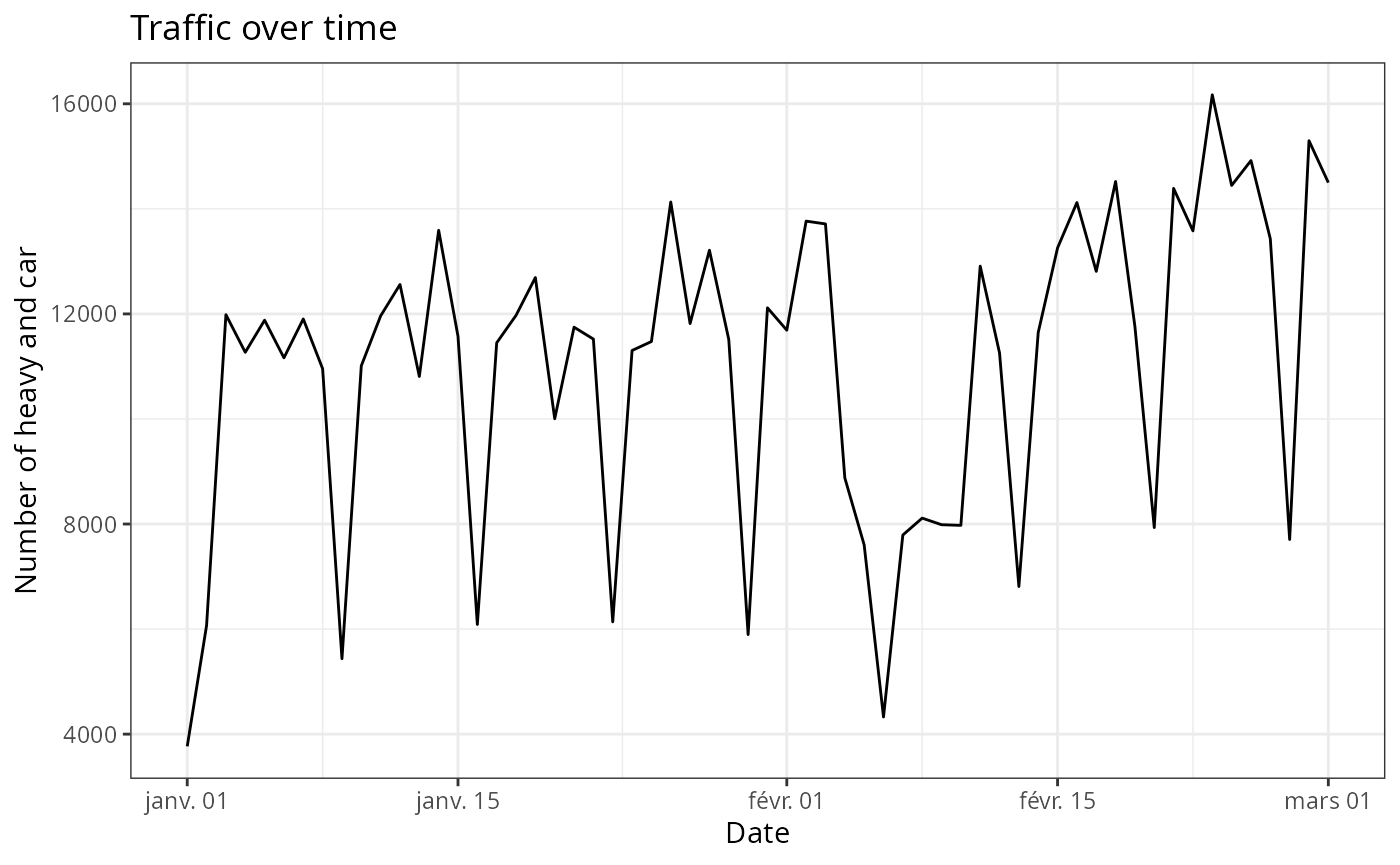
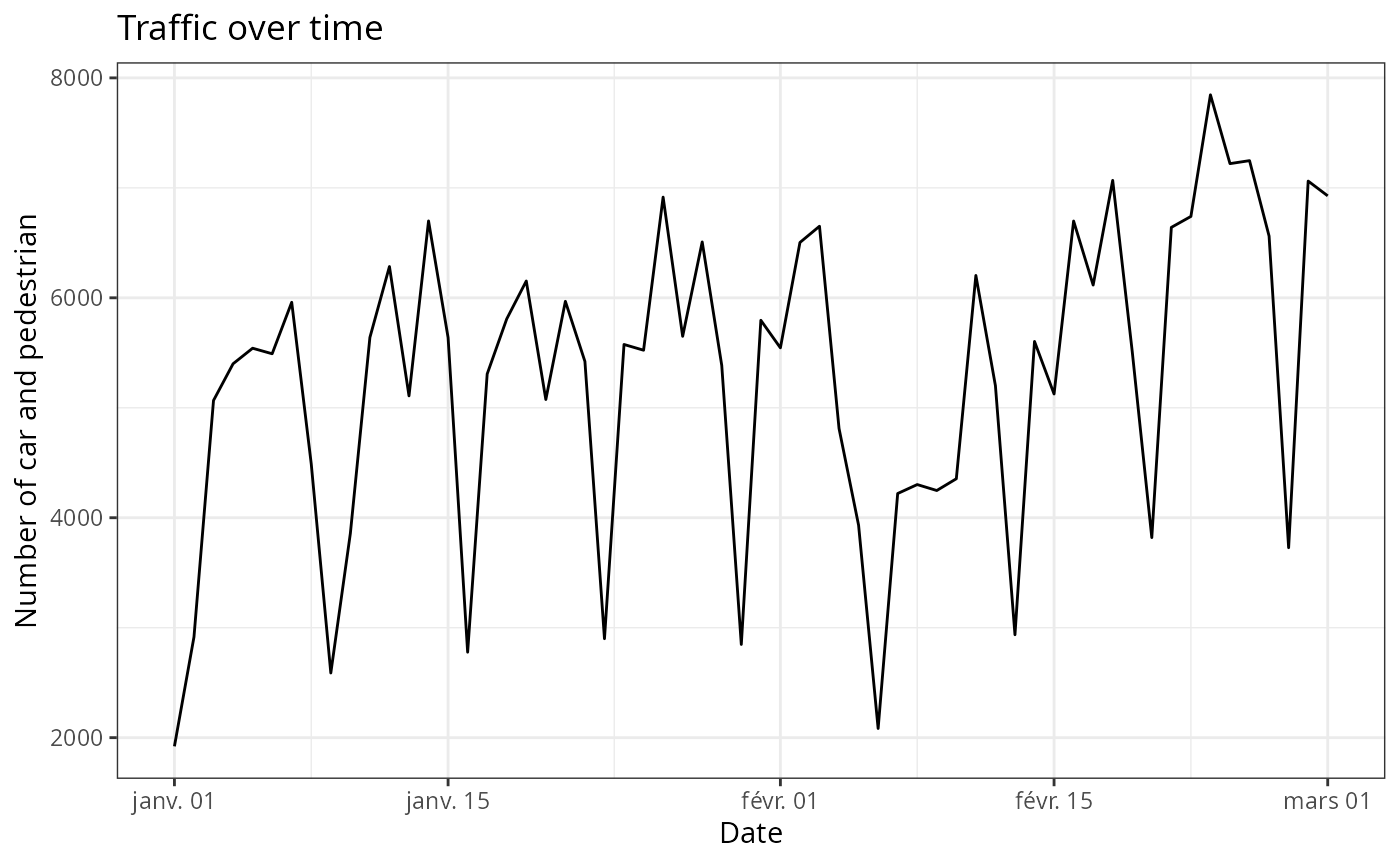
generalize average traffic graphs

diff --git a/docs/articles/data_visualization.html b/docs/articles/data_visualization.html
@@ -365,7 +365,7 @@ is already attached and you can call it directly :</p>
 </table>
 </div>
 <div class="section level2">
-<h2 id="period-availability-for-your-segments">Period Availability for Your Segments<a class="anchor" aria-label="anchor" href="#period-availability-for-your-segments"></a>
+<h2 id="period-availability-for-your-segments">Period availability for your segments<a class="anchor" aria-label="anchor" href="#period-availability-for-your-segments"></a>
 </h2>
 <p>Road segment-specific sensors do not operate continuously; they are
 limited by daylight duration and may also face other external issues
@@ -454,11 +454,31 @@ direction, for a particular transportation mode).</p>
 <code class="sourceCode R"><span><span class="fu"><a href="https://rdrr.io/r/graphics/plot.default.html" class="external-link">plot</a></span><span class="op">(</span></span>
 <span>  <span class="fu"><a href="../reference/gg_traffic_avg.html">gg_traffic_avg</a></span><span class="op">(</span><span class="va">traffic</span>,</span>
 <span>                       date_range <span class="op">=</span> <span class="fu"><a href="https://rdrr.io/r/base/c.html" class="external-link">c</a></span><span class="op">(</span><span class="st">'2022-01-01'</span>,<span class="st">'2022-03-01'</span><span class="op">)</span>,</span>
-<span>                       segment <span class="op">=</span> <span class="fu"><a href="https://rdrr.io/r/base/c.html" class="external-link">c</a></span><span class="op">(</span><span class="fl">9000001844</span><span class="op">)</span>,</span>
+<span>                       segment <span class="op">=</span> <span class="fu"><a href="https://rdrr.io/r/base/c.html" class="external-link">c</a></span><span class="op">(</span><span class="st">"RteVitre-06"</span><span class="op">)</span>,</span>
 <span>                       mode <span class="op">=</span> <span class="fu"><a href="https://rdrr.io/r/base/c.html" class="external-link">c</a></span><span class="op">(</span><span class="st">'car'</span><span class="op">)</span>,</span>
 <span>                       direction <span class="op">=</span> <span class="fu"><a href="https://rdrr.io/r/base/c.html" class="external-link">c</a></span><span class="op">(</span><span class="st">'rgt'</span><span class="op">)</span><span class="op">)</span></span>
 <span><span class="op">)</span></span></code></pre></div>
-<p><img src="data_visualization_files/figure-html/unnamed-chunk-8-1.png" width="700"></p>
+<p><img src="data_visualization_files/figure-html/unnamed-chunk-8-1.png" width="700">
+### Average traffic per segment</p>
+<p>The same function can be used to calculate the average traffic per
+segment and compare segments with each other.</p>
+<div class="sourceCode" id="cb8"><pre class="downlit sourceCode r">
+<code class="sourceCode R"><span><span class="fu"><a href="https://rdrr.io/r/graphics/plot.default.html" class="external-link">plot</a></span><span class="op">(</span></span>
+<span>  <span class="fu"><a href="../reference/gg_traffic_avg.html">gg_traffic_avg</a></span><span class="op">(</span><span class="va">traffic</span>, aggregated_by <span class="op">=</span> <span class="st">"segment_name"</span><span class="op">)</span></span>
+<span><span class="op">)</span></span></code></pre></div>
+<p><img src="data_visualization_files/figure-html/unnamed-chunk-9-1.png" width="700">
+Similarly to before, it is possible to specify a period, a direction of
+travel, a mode of transportation, or here a day of the week.</p>
+<div class="sourceCode" id="cb9"><pre class="downlit sourceCode r">
+<code class="sourceCode R"><span><span class="fu"><a href="https://rdrr.io/r/graphics/plot.default.html" class="external-link">plot</a></span><span class="op">(</span></span>
+<span>  <span class="fu"><a href="../reference/gg_traffic_avg.html">gg_traffic_avg</a></span><span class="op">(</span><span class="va">traffic</span>, </span>
+<span>                 aggregated_by <span class="op">=</span> <span class="st">"segment_name"</span>,</span>
+<span>                 weekday <span class="op">=</span> <span class="fu"><a href="https://rdrr.io/r/base/c.html" class="external-link">c</a></span><span class="op">(</span><span class="st">'dimanche'</span><span class="op">)</span>,</span>
+<span>                 mode <span class="op">=</span> <span class="fu"><a href="https://rdrr.io/r/base/c.html" class="external-link">c</a></span><span class="op">(</span><span class="st">'car'</span><span class="op">)</span>,</span>
+<span>                 direction <span class="op">=</span> <span class="fu"><a href="https://rdrr.io/r/base/c.html" class="external-link">c</a></span><span class="op">(</span><span class="st">'rgt'</span><span class="op">)</span><span class="op">)</span></span>
+<span><span class="op">)</span></span></code></pre></div>
+<p><img src="data_visualization_files/figure-html/unnamed-chunk-10-1.png" width="700">
+### Detail average traffic</p>
 </div>
 </div>
   </main><aside class="col-md-3"><nav id="toc"><h2>On this page</h2>

diff --git a/docs/reference/gg_traffic_avg.html b/docs/reference/gg_traffic_avg.html
@@ -67,7 +67,8 @@ for a transportation mode or more, for a direction or both.</p>
 <span>  segments <span class="op">=</span> <span class="cn">NULL</span>,</span>
 <span>  modes <span class="op">=</span> <span class="fu"><a href="https://rdrr.io/r/base/c.html" class="external-link">c</a></span><span class="op">(</span><span class="st">"heavy"</span>, <span class="st">"car"</span><span class="op">)</span>,</span>
 <span>  direction <span class="op">=</span> <span class="st">"both"</span>,</span>
-<span>  agg_day <span class="op">=</span> <span class="cn">TRUE</span></span>
+<span>  weekday <span class="op">=</span> <span class="cn">NULL</span>,</span>
+<span>  aggregated_by <span class="op">=</span> <span class="st">"weekday"</span></span>
 <span><span class="op">)</span></span></code></pre></div>
     </div>
 
@@ -93,8 +94,12 @@ for a transportation mode or more, for a direction or both.</p>
 <dd><p>Character. Direction of the traffic (lft, rgt, both). Default to both.</p></dd>
 
 
-<dt>agg_day</dt>
-<dd><p>Boolean. Should the data be aggregated per day ? Default : True</p></dd>
+<dt>weekday</dt>
+<dd><p>Character vector. Weekday choosen. Default to the all week.</p></dd>
+
+
+<dt>aggregated_by</dt>
+<dd><p>Character. Options are : 'segment_name', 'weekday'. Default : 'weekday'.</p></dd>
 
 </dl></div>
     <div class="section level2">

diff --git a/docs/reference/filtering_agg.html b/docs/reference/filtering_agg.html
@@ -60,7 +60,8 @@
 <span>  date_range <span class="op">=</span> <span class="cn">NULL</span>,</span>
 <span>  segments <span class="op">=</span> <span class="cn">NULL</span>,</span>
 <span>  direction <span class="op">=</span> <span class="cn">NULL</span>,</span>
-<span>  modes <span class="op">=</span> <span class="cn">NULL</span></span>
+<span>  modes <span class="op">=</span> <span class="cn">NULL</span>,</span>
+<span>  weekdays <span class="op">=</span> <span class="cn">NULL</span></span>
 <span><span class="op">)</span></span></code></pre></div>
     </div>
 
@@ -79,11 +80,15 @@
 
 
 <dt>modes</dt>
-<dd><p>Vector of character. Type(s) of mobility: c("car","heavy","pedestrian","bike")#'</p></dd>
+<dd><p>Vector of character. Type(s) of mobility: c("car","heavy","pedestrian","bike")</p></dd>
 
 
 <dt>segment</dt>
 <dd><p>Vector of character. Ids of desired segments.</p></dd>
+
+
+<dt>weekday</dt>
+<dd><p>Vector of character. Weekday(s) choosen.</p></dd>
 
 </dl></div>
     <div class="section level2">

diff --git a/docs/reference/gg_traffic_evolution.html b/docs/reference/gg_traffic_evolution.html
@@ -83,7 +83,7 @@ during a period.</p>
 
 
 <dt>segments</dt>
-<dd><p>Character vector. Selected road segment, all if NULL (default).</p></dd>
+<dd><p>Character vector. Selected road segment by its name, all if NULL (default).</p></dd>
 
 
 <dt>modes</dt>
